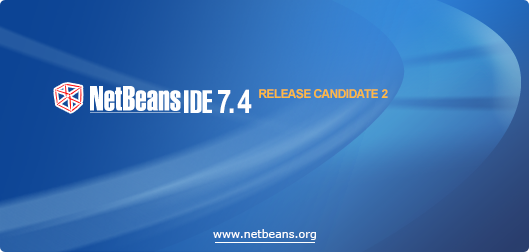
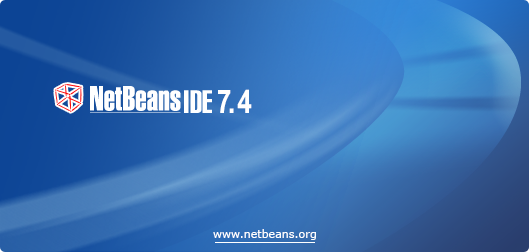
7.4 final branding.

Changed region(s): [[0.4839, 0.3333, 0.7561, 0.3889]]

diff --git a/installer/infra/build/web/start.html b/installer/infra/build/web/start.html
@@ -180,12 +180,6 @@
                                                     replace("{1}",LICENSE_FILES_LINK).
                                                     replace("{2}",LICENSE_FILES_LINK))
                                             </script>
-                                            <br><br>
-                                                <p>
-                                                    <script type="text/javascript">
-                                                            message(LEGAL_WARNING_MESSAGE)
-                                                    </script>
-                                                </p>
                                         </div>
                                     </div>
 

diff --git a/installer/infra/build/web/index.html b/installer/infra/build/web/index.html
@@ -278,12 +278,6 @@
                                         replace("{1}",LICENSE_FILES_LINK).
                                         replace("{2}",LICENSE_FILES_LINK))
                                 </script>
-                                <br><br>
-                                    <p>
-                                        <script type="text/javascript">
-                                                message(LEGAL_WARNING_MESSAGE)
-                                        </script>
-                                    </p>
                             </div>
                         </div>
 

diff --git a/installer/infra/build/web/js/build_info.js b/installer/infra/build/web/js/build_info.js
@@ -64,8 +64,8 @@ build_info.BOUNCER_URL = "http://services.netbeans.org/bouncer/index.php";
 build_info.USE_HTML_ZIP_LISTING = 1;
 
 build_info.add_download_tabs = function() {
-	add_download_tab("7.3.1", "http://netbeans.org/downloads/");
-        add_download_tab("7.4 RC2");
+	add_download_tab("7.3.1", "http://netbeans.org/downloads/7.3.1");
+        add_download_tab("7.4");
 	add_download_tab(DEVELOPMENT_TITLE,DEVELOPMENT_BUILDS_LINK);
 	add_download_tab(ARCHIVE_TITLE,ARCHIVE_BUILDS_LINK);
 }
